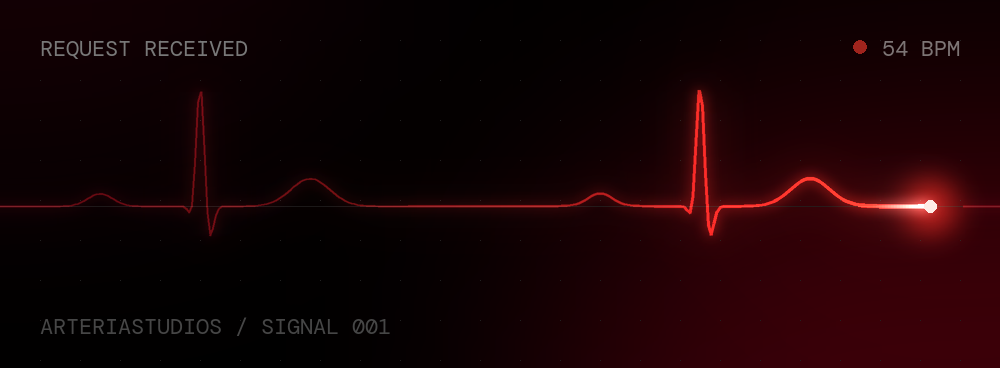
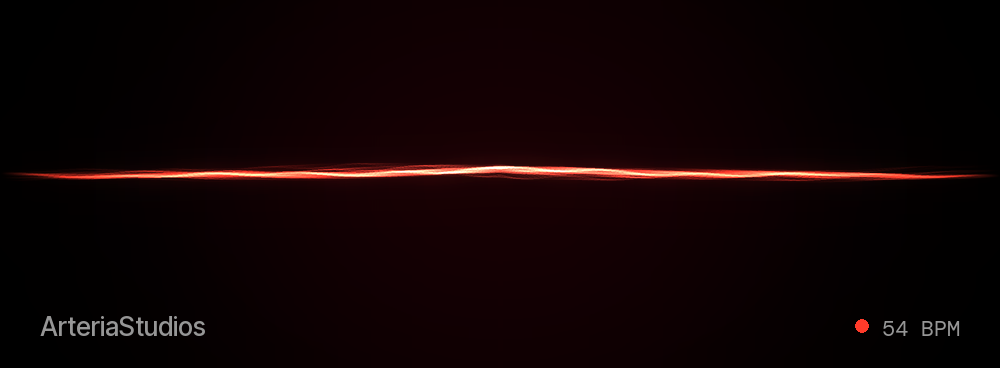
Email hero: the site's preloader (breathing strands, soft double beat, echo ripple) instead of an ECG trace

diff --git a/scripts/make-email-hero.py b/scripts/make-email-hero.py
@@ -1,0 +1,192 @@
+"""
+Email hero (public/assets/email/pulse.gif): the site's preloader (assets/intro.js)
+as a seamless loop.
+
+Fine strands of light open from the centre and breathe; once per loop they give
+a soft double beat built from smooth curves, a quick echo ripple runs out along
+the line and dies away, and a red flash blooms from the centre. The canvas keeps
+a phosphor afterglow (sub-steps accumulate like the site's canvas), so motion
+leaves a fading trail. Brand bottom left, "54 BPM" bottom right, as on the intro.
+
+Frame 0 is a calm, complete line, so clients that show only the first frame
+(Outlook desktop) still get a finished picture.
+
+    python scripts/make-email-hero.py <DMMono.ttf> <InterTight.ttf>
+"""
+import math
+import os
+import sys
+
+import numpy as np
+from PIL import Image, ImageDraw, ImageFilter, ImageFont
+
+ROOT = os.path.dirname(os.path.dirname(os.path.abspath(__file__)))
+OUT = os.path.join(ROOT, "public", "assets", "email", "pulse.gif")
+POSTER = os.path.join(ROOT, "public", "assets", "email", "pulse.png")
+MONO, SANS = sys.argv[1], sys.argv[2]
+
+W, H = 1000, 368               # ~1.7x of the 600x220 slot in the email
+SS = 2                         # supersampling for the strands
+FRAMES = 32
+FRAME_MS = 70                  # loop = 2.24 s
+LOOP = FRAMES * FRAME_MS / 1000
+SUB = 4                        # afterglow sub-steps per frame (~16 ms, like the site's rAF)
+KEEP = 0.8                     # the site fades the canvas by 0.2 per animation frame
+PERIOD = 60 / 54
+T_BEAT = 0.42 * LOOP           # the beat lands a little before the middle of the loop
+K = 1.2                        # amplitude (the site scales by screen height)
+XS = 1.35                      # site px per GIF px, horizontally
+
+STRANDS = [  # delay (s), dy (px), alpha, width (px) — same as intro.js
+    (0.000, 0.0, 1.00, 1.8),
+    (0.030, 1.6, 0.45, 1.1),
+    (0.060, -1.8, 0.30, 1.1),
+    (0.095, 3.2, 0.18, 0.9),
+    (0.135, -3.6, 0.10, 0.9),
+]
+
+
+def beat_env(tau):
+    return 0.0 if tau <= 0 else (1 - math.exp(-tau / 0.03)) * math.exp(-tau / 0.2)
+
+
+def energy_at(tau):
+    return beat_env(tau + 0.03) + 0.55 * beat_env(tau - 0.16 * PERIOD)
+
+
+def shape(u, tau):
+    """Offset of the line at u (site px from the centre), tau s after the beat (intro.js)."""
+    s = energy_at(tau)
+    y = (-np.exp(-((u / 16) ** 2)) * 118 * K * s
+         + np.exp(-(((u - 26) / 20) ** 2)) * 34 * K * s
+         - np.exp(-(((u + 60) / 26) ** 2)) * 12 * K * s)
+    if tau > 0:
+        au = np.abs(u)
+        front = 1100 * tau
+        inside = np.clip((front - au + 60) / 120, 0, 1)
+        y = y + (np.sin(au * 0.05 - tau * 30) * 24 * K
+                 * np.exp(-au / (220 + front * 0.4)) * math.exp(-tau / 0.5) * inside)
+    return y
+
+
+def breath(x, t):
+    # Periodic in the loop, so the GIF repeats without a seam.
+    w = 2 * math.pi / LOOP
+    return np.sin(x * 0.009 + t * w) * 2.2 * K + np.sin(x * 0.021 - t * w) * 1.2 * K
+
+
+def loop_tau(t):
+    """Time since the beat, wrapped so the previous loop's beat also fades out."""
+    tau = t - T_BEAT
+    return tau if tau > -0.5 else tau + LOOP
+
+
+XG = np.arange(0, W * SS + 1, 2, dtype=float)        # sample every 2 px at 2x
+U = (XG / SS - W / 2) * XS
+EDGE = np.clip(1 - np.abs(XG / SS - W / 2) / (W * 0.5), 0, 1)
+FADE = np.where(EDGE > 0.4, 1.0, EDGE / 0.4) ** 1.2   # strands fade out to the sides
+CY = H * 0.47
+
+
+def strands(t):
+    """One draw of all strands as a float RGB array at 2x (additive, like 'lighter')."""
+    tau = loop_tau(t)
+    e = energy_at(tau)
+    acc = np.zeros((H * SS, W * SS, 3), dtype=np.float32)
+    glow_layer = None
+    for i, (delay, dy, a, w) in enumerate(STRANDS):
+        y = CY + dy + shape(U, tau - delay) + breath(XG / SS + i * 40, t) * (1 - 0.6 * e)
+        pts = list(zip(XG, y * SS))
+        mask = Image.new("L", (W * SS, H * SS), 0)
+        d = ImageDraw.Draw(mask)
+        d.line(pts, fill=255, width=max(1, int(round(w * SS))), joint="curve")
+        m = np.asarray(mask, dtype=np.float32) / 255
+        # Brightness along x: fade to the sides; the centre warms to white on the beat.
+        col_mid = np.array([255, 90 + 130 * e, 70 + 120 * e], dtype=np.float32)
+        col_side = np.array([255, 59, 42], dtype=np.float32)
+        mix = np.clip(1 - np.abs(XG / SS - W / 2) / (W * 0.2), 0, 1)
+        col = (col_side[None, :] * (1 - mix[:, None]) + col_mid[None, :] * mix[:, None]) * (a * FADE[:, None])
+        colx = np.repeat(col, 2, axis=0)[: W * SS]
+        layer = m[:, :, None] * colx[None, :, :]
+        acc += layer
+        if i == 0:
+            glow_layer = layer * (0.55 + 1.2 * e)
+    return acc, glow_layer, e
+
+
+def to_img(arr):
+    return Image.fromarray(np.clip(arr, 0, 255).astype(np.uint8), "RGB")
+
+
+# Static background: a faint crimson field, like the site's gradients.
+bg = Image.new("RGB", (W, H), (0, 0, 0))
+g = Image.new("RGB", (W, H), (0, 0, 0))
+gd = ImageDraw.Draw(g)
+gd.ellipse((W * 0.2, H * 0.05, W * 0.8, H * 0.95), fill=(26, 0, 4))
+BG = np.asarray(g.filter(ImageFilter.GaussianBlur(110)), dtype=np.float32)
+
+f_mono = ImageFont.truetype(MONO, 22)
+f_sans = ImageFont.truetype(SANS, 26)
+try:
+    f_sans.set_variation_by_axes([500])
+except Exception:
+    pass
+
+
+def overlay(img, e):
+    d = ImageDraw.Draw(img)
+    grey = (150, 150, 150)
+    d.text((40, H - 58), "ArteriaStudios", font=f_sans, fill=grey)
+    label = "54 BPM"
+    tw = d.textlength(label, font=f_mono)
+    x, y = W - 40 - tw, H - 54
+    d.text((x, y), label, font=f_mono, fill=grey)
+    r = 6 * (1 + 0.9 * min(1, e))                     # the dot beats, as on the intro
+    cx, cy = x - 20, y + 12
+    d.ellipse((cx - r, cy - r, cx + r, cy + r), fill=(255, 59, 42))
+
+
+# Accumulate with afterglow; run one loop first so frame 0 already has its trail.
+canvas = np.zeros((H * SS, W * SS, 3), dtype=np.float32)
+frames = []
+dt = FRAME_MS / 1000 / SUB
+for pass_ in range(2):
+    for f in range(FRAMES):
+        glow_acc = None
+        for s in range(SUB):
+            t = (f * SUB + s) * dt
+            layer, glow, e = strands(t)
+            canvas = canvas * KEEP + layer
+        if pass_ == 0:
+            continue
+        small = to_img(canvas).resize((W, H), Image.LANCZOS)
+        glow_img = to_img(glow).resize((W, H), Image.BILINEAR)
+        halo = (np.asarray(glow_img.filter(ImageFilter.GaussianBlur(8)), dtype=np.float32) * 1.1
+                + np.asarray(glow_img.filter(ImageFilter.GaussianBlur(26)), dtype=np.float32) * 0.9)
+        # Beat flash: a red bloom from the centre (intro .intro-flash).
+        tau = loop_tau(f * FRAME_MS / 1000)
+        flash = 0.0 if tau < -0.1 else 0.8 * math.exp(-max(0, tau) / 0.35) * min(1, (tau + 0.1) / 0.13)
+        yy, xx = np.mgrid[0:H, 0:W]
+        rr = np.sqrt(((xx - W / 2) / (W * 0.62)) ** 2 + ((yy - CY) / (H * 1.1)) ** 2)
+        bloom = np.clip(1 - rr, 0, 1)[:, :, None] * np.array([255, 59, 42], dtype=np.float32) * 0.42 * flash
+        img = to_img(BG + bloom + halo + np.asarray(small, dtype=np.float32))
+        overlay(img, energy_at(tau))
+        frames.append(img)
+
+# One palette from all frames (no dither shimmer between frames).
+hw, hh = W // 2, H // 2
+mosaic = Image.new("RGB", (hw, hh * FRAMES + 64))
+for k, fr in enumerate(frames):
+    mosaic.paste(fr.resize((hw, hh), Image.BILINEAR), (0, hh * k))
+# Neutral greys for the labels, so they don't pick up the red of the palette.
+md = ImageDraw.Draw(mosaic)
+for i in range(16):
+    v = 30 + i * 12
+    md.rectangle((i * hw // 16, hh * FRAMES, (i + 1) * hw // 16, hh * FRAMES + 64), fill=(v, v, v))
+pal = mosaic.quantize(colors=128, method=Image.Quantize.MEDIANCUT)
+q = [fr.quantize(palette=pal, dither=Image.Dither.NONE) for fr in frames]
+
+os.makedirs(os.path.dirname(OUT), exist_ok=True)
+q[0].save(OUT, save_all=True, append_images=q[1:], duration=FRAME_MS, loop=0, optimize=True, disposal=1)
+frames[0].save(POSTER, optimize=True)
+print("gif", os.path.getsize(OUT) // 1024, "KB; png", os.path.getsize(POSTER) // 1024, "KB")
